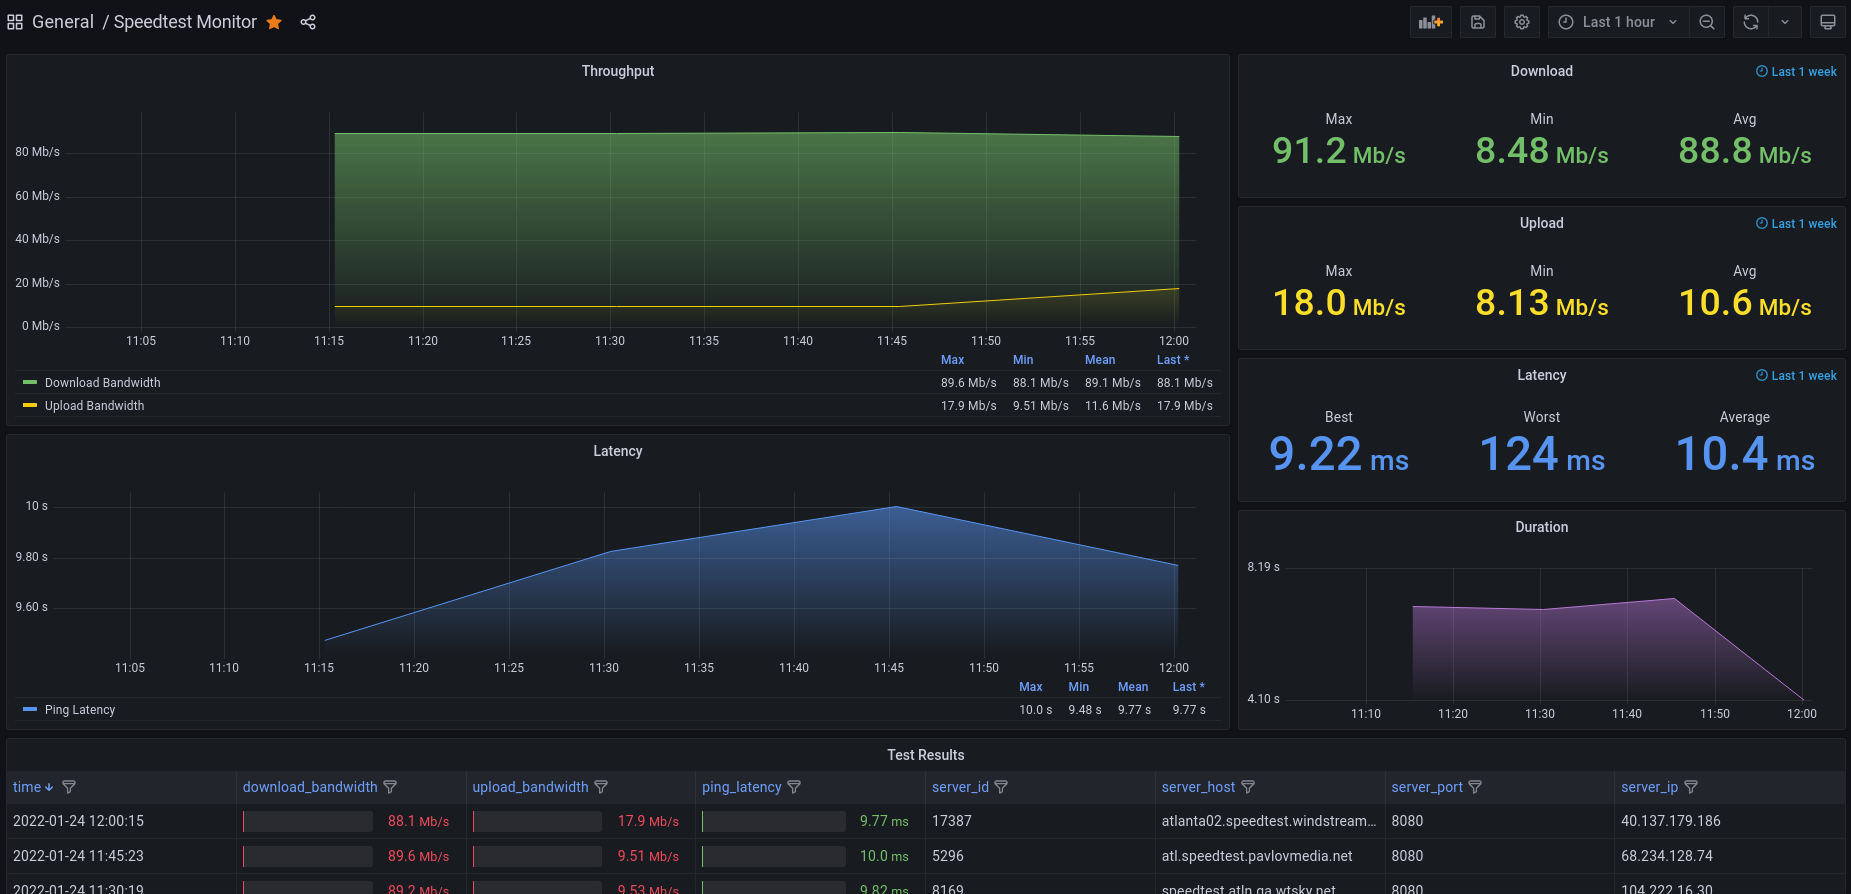
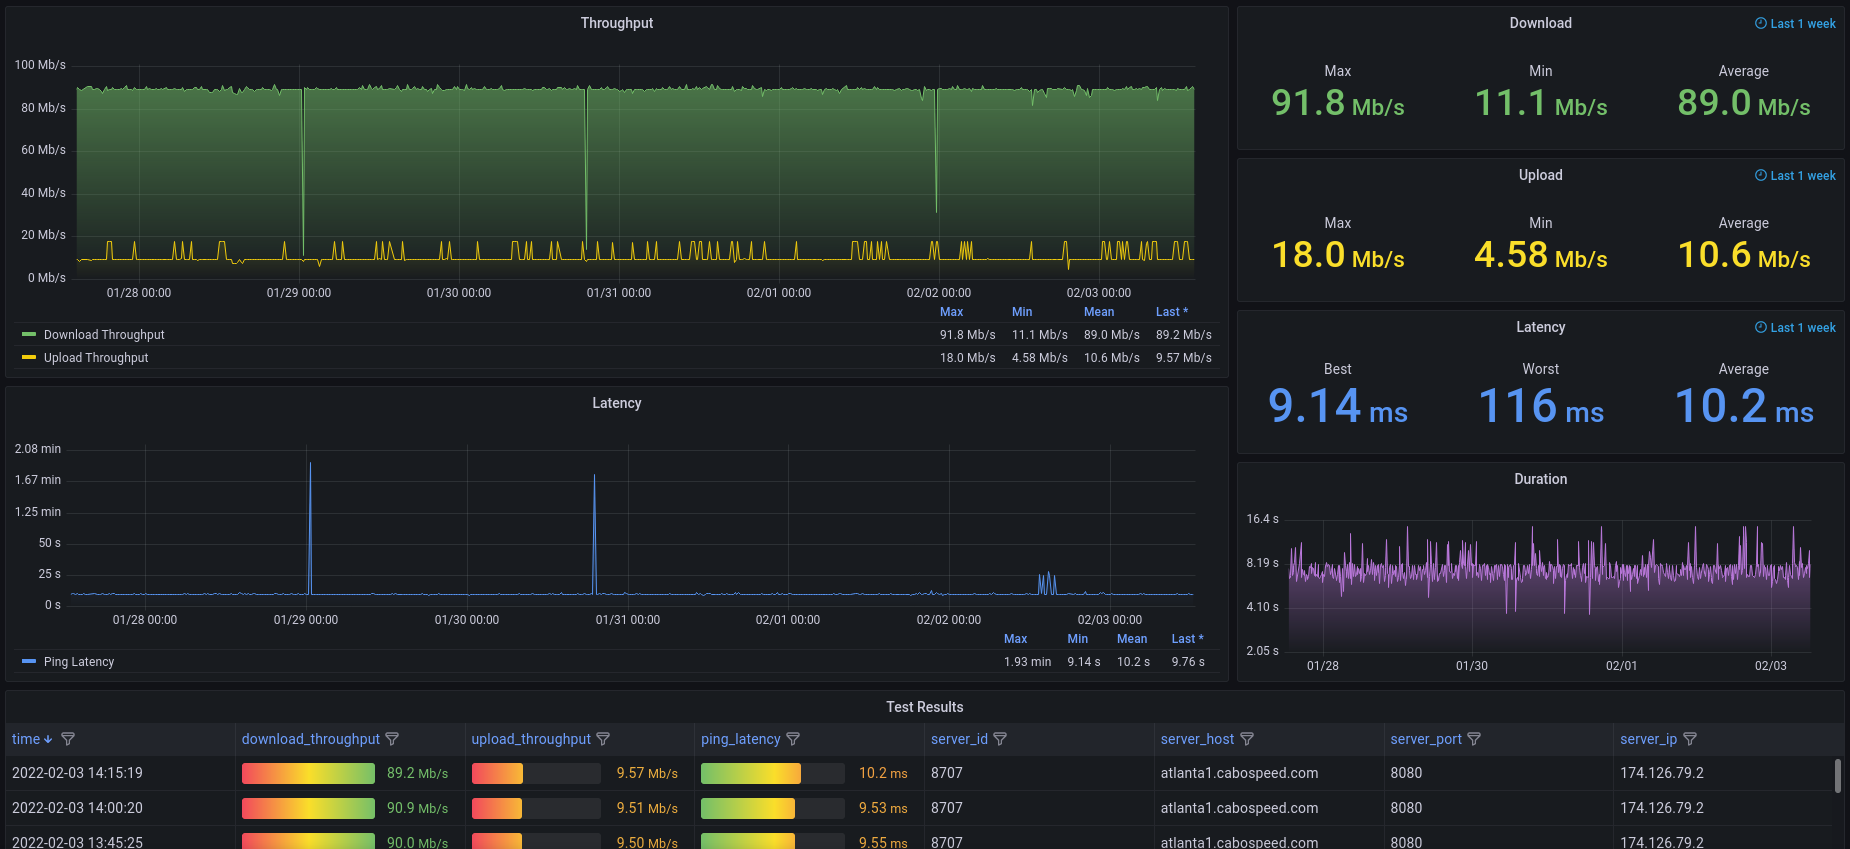
[0.3.0] - 2022-02-04 ## [0.3.0] - 2022-02-04 ### Added - Added Dockerfile. ### Changed - Changed path to the speedtest binary.  If you're not using Docker, you'll need   to install the speedtest binary on your computer and/or change the path. - Added the  argument to speedtest, otherwise it wouldn't

diff --git a/speedtest_monitor/speedtest_monitor.py b/speedtest_monitor/speedtest_monitor.py
@@ -134,7 +134,9 @@ def main():
 
     logger.info("Running speedtest...")
     try:
-        process = subprocess.run(["/usr/local/bin/speedtest", "-f", "json"], check=True, capture_output=True)
+        process = subprocess.run(
+            ["/usr/bin/speedtest", "--accept-license", "-f", "json"], check=True, capture_output=True
+        )
         speedtest_results = json.loads(process.stdout.decode("utf-8"))
         logger.debug("speedtest_results==%s", pretty_print(speedtest_results))
 

diff --git a/speedtest_monitor/config.py b/speedtest_monitor/config.py
@@ -8,12 +8,12 @@ import os
 # Application Variables
 app_dict = {
     "author": "Aaron Melton <aaron@aaronmelton.com>",
-    "date": "2022-01-24",
+    "date": "2022-02-04",
     "desc": "A Python script to capture speedtest JSON and insert it into a database.",
     "name": "speedtest_monitor.py",
     "title": "Speedtest Monitor",
     "url": "https://github.com/aaronmelton/speedtest_monitor",
-    "version": "v0.2.0",
+    "version": "v0.3.0",
 }
 
 # Logging Variables

diff --git a/README.md b/README.md
@@ -1,6 +1,6 @@
 # Speedtest Monitor
 
-A Python script to capture speedtest-cli JSON and insert it into a database.
+A Python script to capture speedtest JSON and insert it into a database.
 
 ![speedtest_monitor.png](speedtest_monitor.png)
 
@@ -12,7 +12,7 @@ This script was written to track internet speed using Ookla's speed test.
 This repository contains the SQL schema and the Grafana dashboard JSON so you can track your own metrics.
 
 ### Prerequisites
-* [speedtest binary from Ookla](https://www.speedtest.net/apps/cli); I'm using the Linux binary here.
+* [speedtest binary from Ookla](https://www.speedtest.net/apps/cli); I'm using the Linux binary here.  (Installed automatically if using Dockerfile.)
 * MySQL database to store results.
 * Set environment variables (see config.py).
 
@@ -21,7 +21,19 @@ This repository contains the SQL schema and the Grafana dashboard JSON so you ca
 
 ### Instructions For Use
 
-* `python speedtest_monitor.py`
+#### Running Python Natively
+* To run the Python script:
+`python speedtest_monitor.py`
+
+#### Docker Commands
+* To build the Docker image:
+`docker build -t speedtest_monitor .`
+
+* To run inside Docker:
+`docker run --rm -e <env vars> speedtest_monitor:latest`
+
+#### Grafana
+* In order to use the provided `grafana_dashboard.json` file, you'll need to use the SQL schema provided in `speedtest_database.sql` AND a Grafana MySQL Data Source named "SpeedTest".
 
 ## Acknowledgements
 * Grafana dashboard layout borrowed from [speedtest_exporter](https://github.com/danopstech/speedtest_exporter).

diff --git a/CHANGELOG.md b/CHANGELOG.md
@@ -1,5 +1,17 @@
 # CHANGELOG
 
+## [0.3.0] - 2022-02-04
+### Added
+- Added Dockerfile.
+### Changed
+- Changed path to the speedtest binary.  If you're not using Docker, you'll need
+  to install the speedtest binary on your computer and/or change the path.
+- Added the `--accept-license` argument to speedtest, otherwise it wouldn't work
+  if you haven't run speedtest and accepted the license prior to running the
+  Python script.
+- Renamed instances of bandwidth to throughput (what we're actually measuring).
+- Bumped bandit v1.7.1 -> v1.7.2
+
 ## [0.2.0] - 2022-01-24
 ### Added
 - Added schema structure to the project.
